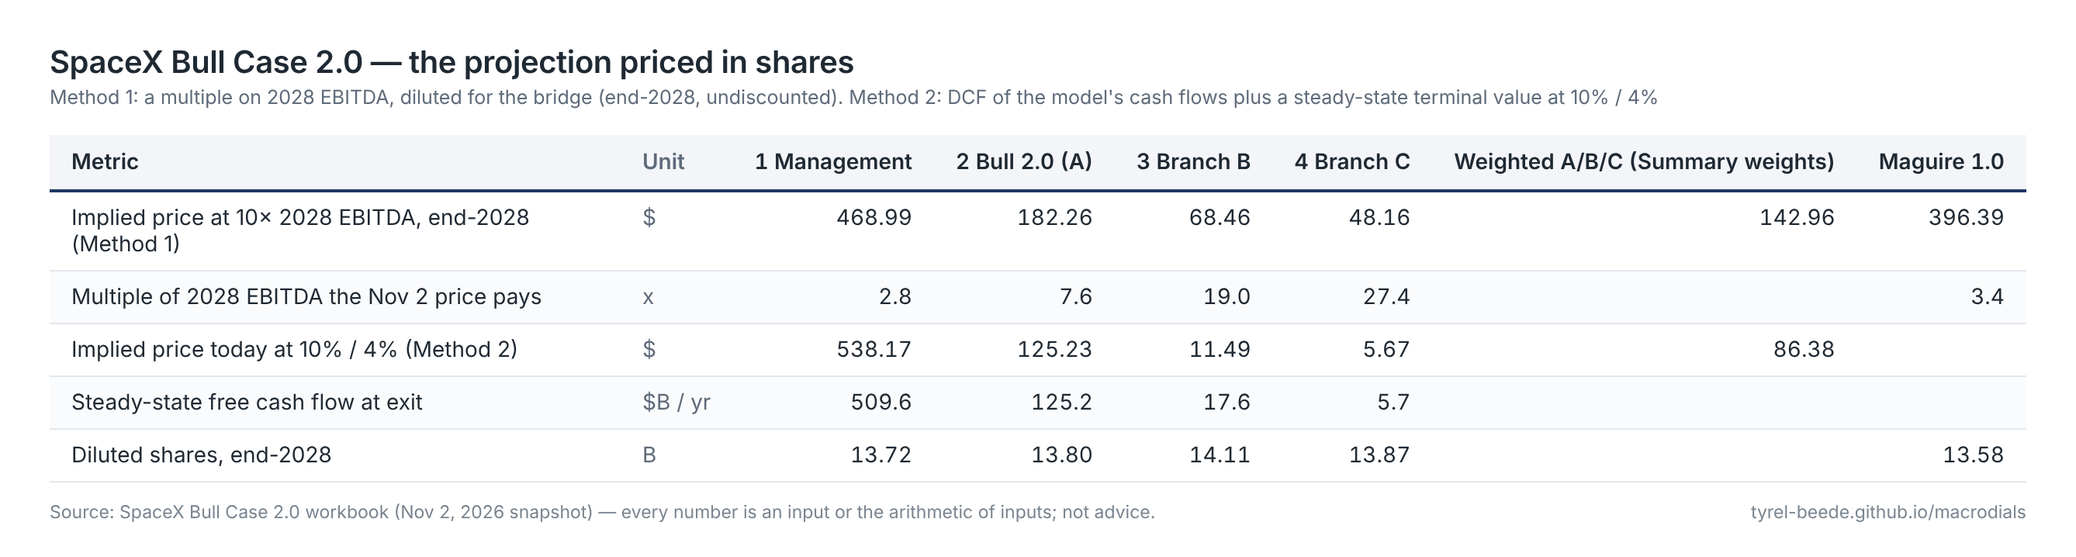
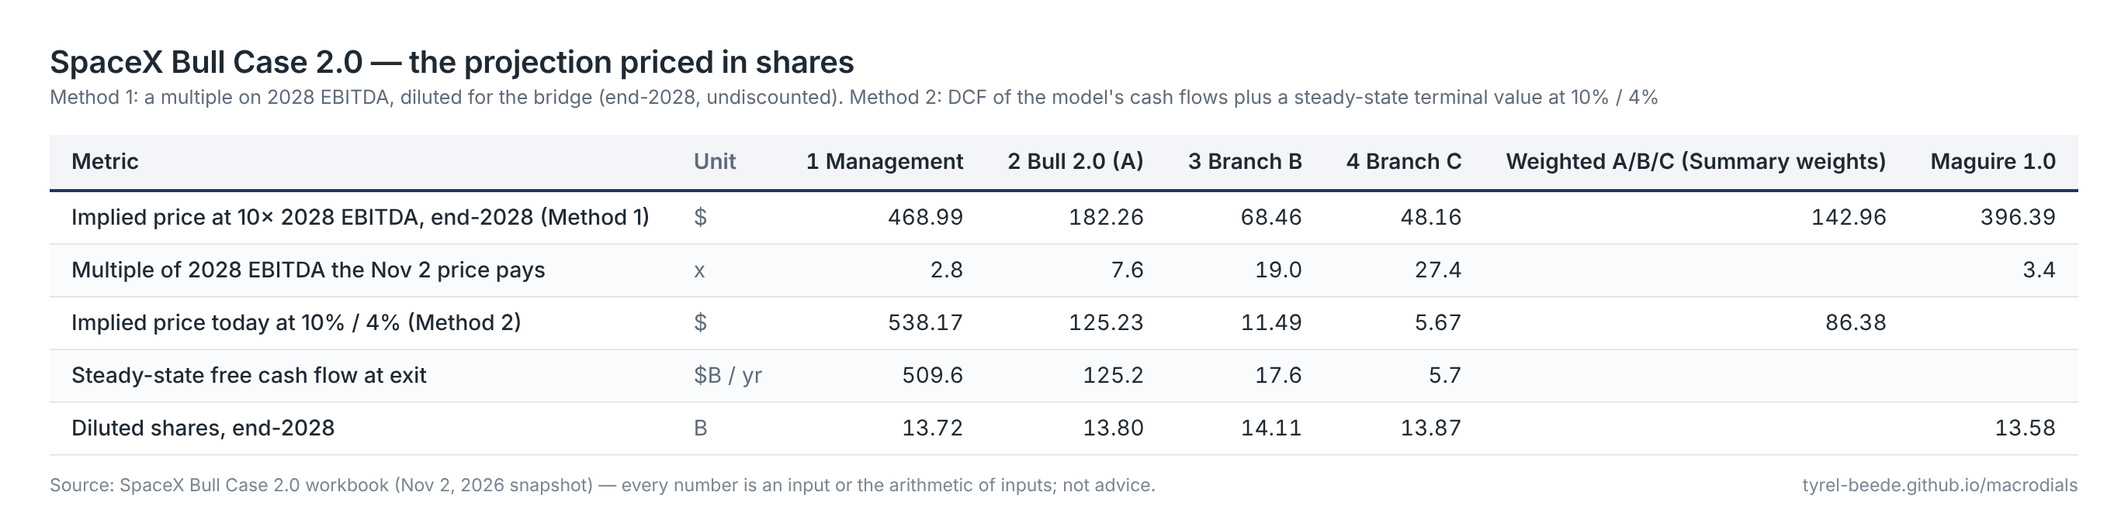
Three sets of numbers: an orientation page for the workbook
docs/model/three-numbers.md explains the company's numbers (Oct 20 call), the bull's (Maguire 1.0)
and the model's (2.0), what kind of statement each is, how the same share price reads against each,
and how to use the scenario selector; three tables rendered as images by tools/site_tables.py
(three-numbers, provenance, scenarios) with selectable text versions. Linked from the Models page,
the home page and the nav.

Claude-Session: https://claude.ai/code/session_018bD6wvLDvuXJaxpEr5BHs2

diff --git a/tools/site_tables.py b/tools/site_tables.py
@@ -37,11 +37,75 @@ table { border-collapse: collapse; font-size: 14px; }
 th { text-align: left; font-weight: 600; padding: 9px 14px; border-bottom: 2px solid #1f3864; background: #f3f5f8; vertical-align: bottom; }
 th.num, td.num { text-align: right; font-variant-numeric: tabular-nums; }
 td { padding: 8px 14px; border-bottom: 1px solid #e3e7ec; vertical-align: top; }
-td.txt { max-width: 340px; }
+td.txt { max-width: 360px; }
+td.lab { white-space: nowrap; font-weight: 500; }
 tr:nth-child(even) td { background: #fafbfc; }
 td.unit, th.unit { color: #5f6b7a; white-space: nowrap; }
 .foot { font-size: 11.5px; color: #7a8591; margin-top: 12px; display: flex; justify-content: space-between; gap: 40px; }
 """
+
+# ---------------------------------------------------------------------------------------------
+# Static tables for the orientation page (docs/model/three-numbers.md). Values are quoted from the
+# Oct 20 call, Maguire's Oct 30 sheet as reconstructed in the article, and the workbook's defaults.
+# ---------------------------------------------------------------------------------------------
+STATIC = {
+    "three-numbers": [
+        ["Item", "The company (Oct 20 call)", "The bull — Maguire 1.0 (Oct 30)", "Model 2.0 base — Branch A (Nov 2)"],
+        ["Compute online, end-2027", "\"Surprised if less than 13 GW\"; 20 GW of power planned", "10.2 GW", "10.0 GW"],
+        ["Compute online, end-2028", "Not stated", "~22 GW implied by 2028 capex at $30B/GW", "15.0 GW — build throttled into the glut"],
+        ["Revenue run-rate, end-2027", "\"$500 billion to $1 trillion\"", "~$420B", "$255B"],
+        ["Revenue 2027 / 2028", "Q1-27 guided $33–37B; years not stated", "$274B / $731B", "$170B / $324B"],
+        ["Adjusted EBITDA 2027 / 2028", "Not stated", "$196B / $536B", "$134B / $263B"],
+        ["Capex", "Q4-26 guided $35–40B", "$88B / $290B / $369B (2026–28)", "Cash $264B / $187B in 2027–28, plus $86B / $45B of vendor leases"],
+        ["Cash generation", "Build \"starts funding itself\" in 1H27", "Cash −$78B / −$123B / +$115B", "Free cash flow −$63B / +$72B; self-funding Q4-27, by throttling"],
+        ["Price of compute", "Payback \"of less than a year\"", "$19.5B → $40B per GW-year on 100% of the fleet, then flat", "$6.50 → $11 → $8 per GPU-hour on the external half; Grok's revenue on the internal half"],
+        ["Cost to build a gigawatt", "\"Slightly above the $30–50 per watt range\"", "$45B → $30B, booked when capacity arrives", "$42B → $34B, half paid a quarter ahead; power capex separate"],
+        ["Internal vs external", "50/50 goal, 60/40 either way", "Not distinguished", "62% external today → 50%"],
+        ["GPU life", "—", "16 years implied by 2028 depreciation", "4 years, vintage-tracked"],
+        ["Orbital compute", "First Starmind flights 2027", "2.8 GW, $31B of revenue, 135 launches in 2028, no capex", "~0.5 GW by end-2028 with capex; MW per launch 8 → 12"],
+        ["Terafab", "Test chip mid-2027; volume Q3–Q4 2028, \"large error bars\"", "Revenue in 2028, no capex", "Capex from 2027; no revenue in the horizon"],
+        ["What $137.40 pays for 2028 EBITDA", "—", "3.4×", "7.6× (diluted)"],
+    ],
+    "provenance": [
+        ["", "The company's numbers", "The bull's numbers", "The model's numbers"],
+        ["Who and when", "Elon Musk, Gwynne Shotwell and CFO Bret Johnsen on the Q3 call, Oct 20, 2026, and the earnings release", "Shaun Maguire, partner at Sequoia Capital (a major SpaceX shareholder), posted to X on Oct 30, built over the preceding week", "The Bull Case 2.0 workbook, a Nov 2, 2026 snapshot built from the article's corrections to 1.0"],
+        ["What kind of statement", "Targets and guidance. The near ones (Q4 capex, Q1 revenue) are guidance a company is held to; the far ones (13 GW, $500B–$1T) are ambitions", "A sketch built for a story: management's claims discounted by a quarter to a half, written in cells so they can be debated", "Conditional arithmetic: four scenarios, each the consequence of stated inputs"],
+        ["Built for", "Investors and customers; setting the scale of the ambition", "Distilling \"something complicated into something that can at least be debated\"", "Orienting a reader on what the same ambition delivers when priced at market and depreciated honestly"],
+        ["Strongest where", "Things the company controls: deployment speed (200,000 chips a month), launch, the near-term guide", "The four inputs its author named: gigawatts, revenue and capex per gigawatt, the Starship ramp, first orbital launches", "Structure: the internal/external split, the lag and ramp, the funding bridge, the depreciation"],
+        ["Weakest where", "The far numbers require ~$16 per GPU-hour on the external fleet, 2.5× today's implied price, or a $100B-plus Grok business within 14 months", "100% of the fleet priced per watt with Grok on top; no construction lag; a 16-year GPU life; orbital and fab with no capex; launch with no depreciation", "Where it must guess: Grok's revenue, the prepayment multiple, the 2028 throttle, the external price path"],
+        ["What moves it", "The Q4 call in late January: the 2027 gigawatt guide, the external share, revenue per gigawatt", "Nothing — it is a dated artifact; its author said the outputs are \"trivial\" given the inputs", "The blue cells on Assumptions; the dated tests on the Tests sheet"],
+        ["Where it lives in the workbook", "Scenario 1 (Management as stated) and the calculator on Summary", "The 1.0 columns on Summary and Valuation; the Bridge sheet", "Scenarios 2–4 and every model sheet"],
+    ],
+    "scenarios": [
+        ["Workbook scenario", "What it represents", "GW end-2027 / end-2028", "External price ($/GPU-hour)", "Revenue 2027 / 2028", "Self-funding", "Market cap ÷ 2028 EBITDA"],
+        ["1 Management as stated", "The company's words reproduced: the price and prepayments the $500B run-rate requires", "13.1 / 29.8", "$10 → $16 → $15", "$254B / $742B", "Q4-27", "2.8×"],
+        ["2 Bull 2.0 base (Branch A)", "The bull after the corrections; the dashboard's expansion-holds branch", "10.0 / 15.0", "$6.50 → $11 → $8", "$170B / $324B", "Q4-27 (by throttling)", "7.6×"],
+        ["3 Branch B", "A capital-spending bust from 2027: prices fall, the build slows, the bridge stays open", "7.3 / 9.4", "$6.50 → $5.50 → $4", "$107B / $147B", "Not in the horizon", "19.0×"],
+        ["4 Branch C", "A credit crunch: the funding window closes, the build throttles to a crawl", "5.3 / 6.3", "$6.50 → $4.50 → $3", "$91B / $103B", "Q4-27 (forced)", "27.4×"],
+        ["Reference: Maguire 1.0", "The bull's own sheet, as reconstructed in the article", "10.2 / ~22", "$8.40 at 100% utilization on 100% of the fleet", "$274B / $731B", "Q1 2028", "3.4×"],
+    ],
+}
+TITLES.update({
+    "three-numbers": "The same company, three sets of numbers",
+    "provenance": "What kind of number each one is",
+    "scenarios": "The workbook's scenario selector, mapped to the three sets of numbers",
+})
+SUBTITLES.update({
+    "three-numbers": "Company: Q3 2026 call and release (Oct 20). Bull: Maguire's Oct 30 model as reconstructed in \"Better Together Than Alone\". Model 2.0: the workbook's Branch A defaults, Nov 2, 2026 snapshot",
+    "provenance": "Three kinds of statement, not three forecasts of the same thing",
+    "scenarios": "Assumptions sheet, cell D4. Prices are the external fleet's $ per GPU-hour at Q4-26 → Q4-27 → Q4-28; market cap at the Nov 2 close ($137.40 × 13.58B) on end-2028 diluted shares",
+})
+
+
+def write_static():
+    OUT.mkdir(parents=True, exist_ok=True)
+    for name, rows in STATIC.items():
+        with open(OUT / f"{name}.md", "w", encoding="utf-8") as f:
+            f.write("| " + " | ".join(rows[0]) + " |\n")
+            f.write("| " + " | ".join("---" for _ in rows[0]) + " |\n")
+            for vals in rows[1:]:
+                f.write("| " + " | ".join(v.replace("|", "\\|") for v in vals) + " |\n")
+        render_png(name, rows, text_table=True)
 
 
 def is_num(s):
@@ -52,19 +116,30 @@ def is_num(s):
         return False
 
 
-def render_png(name, rows):
+def render_png(name, rows, text_table=False):
     try:
         from playwright.sync_api import sync_playwright
     except ImportError:
         print("playwright not installed — skipping", name + ".png"); return
     IMG.mkdir(parents=True, exist_ok=True)
     head, body = rows[0], rows[1:]
-    ths = "".join(f'<th class="{"unit" if i == 1 else ("num" if i >= 2 else "")}">{html.escape(h)}</th>' for i, h in enumerate(head))
+    ncol = len(head)
+    # a column is numeric when most of its non-empty cells are numbers; the unit column is column 1 of a data table
+    numeric = []
+    for i in range(ncol):
+        vals = [r[i] for r in body if r[i] != ""]
+        numeric.append(bool(vals) and sum(is_num(v) for v in vals) >= 0.6 * len(vals) and not (text_table and i == 0))
+    def hcls(i):
+        if not text_table and i == 1: return "unit"
+        return "num" if numeric[i] else ""
+    ths = "".join(f'<th class="{hcls(i)}">{html.escape(h)}</th>' for i, h in enumerate(head))
     trs = []
     for r in body:
         tds = []
         for i, v in enumerate(r):
-            cls = "unit" if i == 1 else ("num" if (i >= 2 and (is_num(v) or v == "")) else "txt")
+            if not text_table and i == 1: cls = "unit"
+            elif numeric[i] and (is_num(v) or v == ""): cls = "num"
+            else: cls = "txt" if i > 0 else "lab"
             tds.append(f'<td class="{cls}">{html.escape(v)}</td>')
         trs.append("<tr>" + "".join(tds) + "</tr>")
     doc = f"""<!doctype html><html><head><meta charset="utf-8"><style>{CSS}</style></head><body>
@@ -133,6 +208,7 @@ def main():
     v = wb["Valuation"]
     hv = find_row(v, "Metric")
     dump(v, hv, 5, range(1, 9), "valuation.md")
+    write_static()
     print("wrote", sorted(p.name for p in OUT.glob("*.md")), sorted(p.name for p in IMG.glob("*.png")) if IMG.exists() else [])
 
 

diff --git a/docs/model/three-numbers.md b/docs/model/three-numbers.md
@@ -1,0 +1,61 @@
+# Three sets of numbers: the company's, the bull's, and the model's
+
+Anyone who opens the Bull Case 2.0 workbook meets three different versions of SpaceX: the one management describes, the one the bull's spreadsheet models, and the one the workbook computes. They are not three forecasts of the same quantity. They are three kinds of statement, made by different people for different purposes, and a reader who treats them as interchangeable will be surprised in both directions — the company's numbers will look like the model has been built by a bear, and the model's numbers will look like the company is being dismissed. Neither is the case. This page sets out what each set is, where it comes from, what it is good for, and what to expect from it, so that the scenario selector on the Assumptions sheet makes sense before the first cell is changed.
+
+[![The same company, three sets of numbers](images/three-numbers.png)](images/three-numbers.png)
+
+??? note "Text version (selectable)"
+    --8<-- "model/tables/three-numbers.md"
+
+## The company's numbers
+
+The company's numbers are the ones said on the third-quarter call of Oct 20, 2026 and in the earnings release: 1.7 gigawatts of nameplate compute at the end of September, about two in October, 2.5 to 3 by year-end; "I would be surprised if we brought on less than 13 GW of compute by the end of next year," with 20 gigawatts of power, cooling and infrastructure planned so that power is not the constraint; $100 billion of annualized revenue by December 2026 and "somewhere between $500 billion and $1 trillion" of run-rate by the end of 2027; fourth-quarter capex of $35–40 billion; first-quarter 2027 revenue of $33–37 billion; new deployments costing "slightly above the $30–50 per watt range" with payback "of less than a year"; a rough 50/50 split of the fleet between outside customers and the company's own products; and a build that "starts funding itself, beginning in the first half of 2027" while the company keeps its investment-grade rating.
+
+Two things about these numbers matter more than their size. The first is that they are not all the same kind of claim. The near ones — the capex guide for the current quarter, the revenue guide for the next — are guidance in the ordinary sense: a public company is held to them, and a miss is an event. The far ones — 13 gigawatts, $500 billion to $1 trillion — are ambitions, said by a founder with a long record of reaching impossible targets late. They set the scale of the bet; they are not something the company has promised to deliver on a date.
+
+The second is that the far numbers carry an implicit claim about price, not just volume. The workbook's calculator on the Summary sheet makes it explicit: a $500 billion run-rate at the end of 2027 on 13 gigawatts, with half the fleet sold outside at 85% utilization, requires about $16 per GPU-hour on the external fleet, against roughly $6 implied by the third quarter's cloud revenue and $4 to $6.70 on the published price cards for the current generation. Either the price of compute rises two and a half times in fourteen months, or Grok becomes a business earning more than $100 billion a year on the internal half, or the number is not reached. That is what "surprised if less than 13" and "$500 billion to $1 trillion" mean when written in cells together.
+
+The workbook keeps the company's numbers as scenario 1, *Management as stated*. It is there to show what the words require — the price path, the prepayments, the vendor leases — not as a forecast. Run that way, it produces $254 billion of revenue in 2027 and $742 billion in 2028 and funds itself from the fourth quarter of 2027. Those outputs are only as real as the $16 price.
+
+## The bull's numbers
+
+The bull's numbers are Shaun Maguire's. A partner at Sequoia Capital — a major SpaceX shareholder, which he disclosed — he posted a "bottoms up" financial model of the company through the end of 2028 to X on Oct 30, built over the preceding week. He called the numbers "insane," flagged "wide error bars given how quickly things are changing," and said the point was "to distill something complicated into something that can at least be debated." Two days later he added that the model estimates four inputs — how many gigawatts are online in 2027 and 2028, how revenue and capex per gigawatt change over time, how Starship launches ramp, and when the first orbital compute satellites fly — with everything else "trivial outputs" of those choices.
+
+The sheet puts revenue at $51 billion in 2026, $274 billion in 2027 and $731 billion in 2028; EBITDA at $28, $196 and $536 billion; capex at $88, $290 and $369 billion; cash falling by $78 billion and $123 billion before rising $115 billion in 2028. It has 10.2 gigawatts online at the end of 2027 and a run-rate of about $420 billion at that point, and it self-funds in 2028. Read against the company's words, it is management discounted by a quarter to a half — fewer gigawatts, less revenue, self-funding a year later — and the founder replied to it in six words: "I think we can do better."
+
+Read against its own cells, it is more generous than management in ways that do not show up in the headline figures, and these are the reasons the 2.0 model exists. It prices 100% of the fleet at $40 billion per gigawatt-year and adds Grok's revenue on top, when management says half the fleet is internal and an internal customer earns what its own customers pay. It books capex in the quarter capacity arrives, with no construction lag and no ramp. Its 2028 depreciation implies a sixteen-year life for GPUs. Its orbital line carries 2.8 gigawatts, $31 billion of revenue and 135 launches with no capex anywhere; its chip fab books revenue in 2028 with no capex either; and its launch segment stops depreciating from mid-2027. None of that makes the narrative wrong. It makes the sheet what its author said it was: a sketch built for a story, and the best public articulation of the bull case precisely because it can be checked.
+
+The workbook does not run the bull's sheet as a scenario. It keeps it as a reference — the 1.0 columns on the Summary and Valuation sheets and the Bridge sheet, which walks through what changed on each of the four inputs.
+
+## The model's numbers
+
+The model's numbers are the workbook's own: the bull's structure with the article's corrections applied, computed quarter by quarter from the third quarter of 2026 through the end of 2028, under four scenarios wired to the macro dashboard's branches. Every number is an input or the arithmetic of inputs, and every input carries a note saying where it came from.
+
+The base case, scenario 2, is the bull after the corrections. The fleet reaches 10 gigawatts at the end of 2027 — the bull's own figure — and then the build is throttled to about a gigawatt a quarter as prices soften, so it ends 2028 at 15 rather than the twenty-odd the bull's capex implies. The external share of the fleet runs from 62% today toward management's 50%, and only that share earns a price: $6.50 per GPU-hour today, rising to $11 at the top of the scarcity window at the end of 2027, easing to $8 through the 2028 glut. The internal half earns what Grok, X and Cursor's customers pay, growing fast from a small base. Deployments cost $42 billion a gigawatt falling to $34 billion, half of it paid a quarter before the capacity is energized, with power and cooling on top; GPUs depreciate over four years; orbital compute and the fab pay for themselves on the way in.
+
+On those inputs the company earns $170 billion of revenue in 2027 and $324 billion in 2028, with EBITDA of $134 billion and $263 billion; it spends $264 billion and $187 billion of cash on capex, with a further $86 billion and $45 billion financed by vendor leases; free cash flow is −$63 billion in 2027 and +$72 billion in 2028; and it funds itself from the fourth quarter of 2027. The self-funding date lands close to management's claim, but for the opposite reason: not because the fleet pays for itself inside a year — revenue per gigawatt-year runs $17 to $24 billion against $34 to $42 billion to build one, a ratio of 0.5 to 0.6 that never reaches one — but because the build is cut as the glut arrives. The outside money that bridges 2027 is mostly customer prepayments ($97 billion over the horizon) and vendor leases ($155 billion), with only $31 billion of new debt and equity. That is the cycle-rider's play described in the article, written in cells.
+
+Scenarios 3 and 4 are not pessimistic flourishes; they are the dashboard's other branches. In a capital-spending bust (B) prices fall to $4, the build slows, revenue is $107 billion and $147 billion, and the bridge never closes. In a credit crunch (C) the funding window shuts and the build throttles to a crawl; revenue is $91 billion and $103 billion, and the company "self-funds" only because it has stopped building.
+
+[![What kind of number each one is](images/provenance.png)](images/provenance.png)
+
+??? note "Text version (selectable)"
+    --8<-- "model/tables/provenance.md"
+
+## The same share price, read three ways
+
+The three sets of numbers meet the market at one price. At the Nov 2 close of $137.40, SpaceX's market capitalization of about $1.87 trillion is 3.4 times the bull's 2028 EBITDA, 7.6 times the 2.0 base case's on diluted shares, and 2.8 times the company's own numbers run through the workbook. The same price, in other words, is either a market that does not believe the bull's number or one that believes the model's and wants a return on it. Run the other way, at a mature compounder's ten times 2028 EBITDA, the bull's sheet implies about $396 a share at the end of 2028 and the base case about $182; discounting the base case's own cash flows plus a steady-state terminal value at 10% and 4% growth gives about $125 today. The Valuation sheet carries the arithmetic, the dilution from the bridge, and the sensitivities to the multiple and the discount rate — which are large, and which are the honest statement of how much of any of this is yardstick rather than model.
+
+## Using the three together
+
+The expectation to carry into the spreadsheet is a spread, not a point. The company's numbers are the ceiling and contain an unstated price. The bull's sheet is a story-shaped version of the ceiling, more generous than it looks. The base case is what the same ambition delivers when the fleet is priced at market and depreciated honestly, and it still comes out as a large, fast-growing, self-funding company — just not the one in the headline figures. The gap between the top and the bottom is the size of the bet, and the article's phrase for it applies: it is the market's probability that the funding and pricing assumptions hold.
+
+[![The workbook's scenario selector, mapped to the three sets of numbers](images/scenarios.png)](images/scenarios.png)
+
+??? note "Text version (selectable)"
+    --8<-- "model/tables/scenarios.md"
+
+Three running numbers tell you which set of numbers the world is moving toward, and the workbook shows each: gigawatts energized (the Compute sheet, against the 13 the founder has promised), revenue per gigawatt-year against the cost per gigawatt (the bottom of the Compute sheet; payback under a year needs it above one), and the funding mix (the bottom of the Consolidated sheet; a shift from cash flow and vendors toward new equity and long-term contracts is the bridge under strain). The first reported figures that all three sets of numbers will meet arrive with the fourth-quarter call in late January: the 2027 gigawatt guide, the external share of the fleet, and revenue per gigawatt. The Tests sheet lists the rest, with dates, and the input in the workbook that each one moves.
+
+!!! note "What this is and is not"
+    An orientation to a sketch, not a forecast and not advice. The company's figures are quoted from the Oct 20 call and release; the bull's from Maguire's posted spreadsheet as reconstructed in *Better Together Than Alone*, with his own caveats; the model's from the workbook's defaults as of the Nov 2, 2026 snapshot. Change the blue cells and the model's numbers change with them.

diff --git a/docs/model/tables/provenance.md b/docs/model/tables/provenance.md
@@ -1,0 +1,9 @@
+|  | The company's numbers | The bull's numbers | The model's numbers |
+| --- | --- | --- | --- |
+| Who and when | Elon Musk, Gwynne Shotwell and CFO Bret Johnsen on the Q3 call, Oct 20, 2026, and the earnings release | Shaun Maguire, partner at Sequoia Capital (a major SpaceX shareholder), posted to X on Oct 30, built over the preceding week | The Bull Case 2.0 workbook, a Nov 2, 2026 snapshot built from the article's corrections to 1.0 |
+| What kind of statement | Targets and guidance. The near ones (Q4 capex, Q1 revenue) are guidance a company is held to; the far ones (13 GW, $500B–$1T) are ambitions | A sketch built for a story: management's claims discounted by a quarter to a half, written in cells so they can be debated | Conditional arithmetic: four scenarios, each the consequence of stated inputs |
+| Built for | Investors and customers; setting the scale of the ambition | Distilling "something complicated into something that can at least be debated" | Orienting a reader on what the same ambition delivers when priced at market and depreciated honestly |
+| Strongest where | Things the company controls: deployment speed (200,000 chips a month), launch, the near-term guide | The four inputs its author named: gigawatts, revenue and capex per gigawatt, the Starship ramp, first orbital launches | Structure: the internal/external split, the lag and ramp, the funding bridge, the depreciation |
+| Weakest where | The far numbers require ~$16 per GPU-hour on the external fleet, 2.5× today's implied price, or a $100B-plus Grok business within 14 months | 100% of the fleet priced per watt with Grok on top; no construction lag; a 16-year GPU life; orbital and fab with no capex; launch with no depreciation | Where it must guess: Grok's revenue, the prepayment multiple, the 2028 throttle, the external price path |
+| What moves it | The Q4 call in late January: the 2027 gigawatt guide, the external share, revenue per gigawatt | Nothing — it is a dated artifact; its author said the outputs are "trivial" given the inputs | The blue cells on Assumptions; the dated tests on the Tests sheet |
+| Where it lives in the workbook | Scenario 1 (Management as stated) and the calculator on Summary | The 1.0 columns on Summary and Valuation; the Bridge sheet | Scenarios 2–4 and every model sheet |

diff --git a/docs/model/tables/three-numbers.md b/docs/model/tables/three-numbers.md
@@ -1,0 +1,16 @@
+| Item | The company (Oct 20 call) | The bull — Maguire 1.0 (Oct 30) | Model 2.0 base — Branch A (Nov 2) |
+| --- | --- | --- | --- |
+| Compute online, end-2027 | "Surprised if less than 13 GW"; 20 GW of power planned | 10.2 GW | 10.0 GW |
+| Compute online, end-2028 | Not stated | ~22 GW implied by 2028 capex at $30B/GW | 15.0 GW — build throttled into the glut |
+| Revenue run-rate, end-2027 | "$500 billion to $1 trillion" | ~$420B | $255B |
+| Revenue 2027 / 2028 | Q1-27 guided $33–37B; years not stated | $274B / $731B | $170B / $324B |
+| Adjusted EBITDA 2027 / 2028 | Not stated | $196B / $536B | $134B / $263B |
+| Capex | Q4-26 guided $35–40B | $88B / $290B / $369B (2026–28) | Cash $264B / $187B in 2027–28, plus $86B / $45B of vendor leases |
+| Cash generation | Build "starts funding itself" in 1H27 | Cash −$78B / −$123B / +$115B | Free cash flow −$63B / +$72B; self-funding Q4-27, by throttling |
+| Price of compute | Payback "of less than a year" | $19.5B → $40B per GW-year on 100% of the fleet, then flat | $6.50 → $11 → $8 per GPU-hour on the external half; Grok's revenue on the internal half |
+| Cost to build a gigawatt | "Slightly above the $30–50 per watt range" | $45B → $30B, booked when capacity arrives | $42B → $34B, half paid a quarter ahead; power capex separate |
+| Internal vs external | 50/50 goal, 60/40 either way | Not distinguished | 62% external today → 50% |
+| GPU life | — | 16 years implied by 2028 depreciation | 4 years, vintage-tracked |
+| Orbital compute | First Starmind flights 2027 | 2.8 GW, $31B of revenue, 135 launches in 2028, no capex | ~0.5 GW by end-2028 with capex; MW per launch 8 → 12 |
+| Terafab | Test chip mid-2027; volume Q3–Q4 2028, "large error bars" | Revenue in 2028, no capex | Capex from 2027; no revenue in the horizon |
+| What $137.40 pays for 2028 EBITDA | — | 3.4× | 7.6× (diluted) |

diff --git a/docs/model/index.md b/docs/model/index.md
@@ -5,6 +5,7 @@
 A bottoms-up quarterly model of SpaceX from Q3-26 (actual) through Q4-28, rebuilt after *Better Together Than Alone* with the corrections the article identified: the internal half of the fleet earns Grok's product revenue rather than a per-watt price; external revenue is price per GPU-hour × hours × utilization; cost per gigawatt sits on the CFO's "$30–50 per watt"; GPUs depreciate over four years; orbital compute and the fab carry capex; Starlink and launch are real segments; and a funding bridge of prepayments, vendor leases, debt and equity computes the self-funding quarter instead of assuming it.
 
 [Download the workbook (.xlsx)](../files/SpaceX_Bull_Case_2.0.xlsx){ .md-button .md-button--primary }
+[Three sets of numbers: how to read it](three-numbers.md){ .md-button }
 
 Every number in the workbook is an input (blue) or the arithmetic of inputs. The scenario selector on the Assumptions sheet switches the whole model between **1 Management as stated**, **2 Bull 2.0 base (Branch A)**, **3 Branch B** (capex bust) and **4 Branch C** (credit crunch) — the dashboard's branches. The tables below are exported from the saved workbook each time the site builds, so they show the workbook's active scenario (Bull 2.0 base) and its static four-scenario snapshot. Each is an image — click it for the full-size PNG, which can be saved, copied or linked directly — with a selectable text version underneath.
 

diff --git a/docs/model/tables/scenarios.md b/docs/model/tables/scenarios.md
@@ -1,0 +1,7 @@
+| Workbook scenario | What it represents | GW end-2027 / end-2028 | External price ($/GPU-hour) | Revenue 2027 / 2028 | Self-funding | Market cap ÷ 2028 EBITDA |
+| --- | --- | --- | --- | --- | --- | --- |
+| 1 Management as stated | The company's words reproduced: the price and prepayments the $500B run-rate requires | 13.1 / 29.8 | $10 → $16 → $15 | $254B / $742B | Q4-27 | 2.8× |
+| 2 Bull 2.0 base (Branch A) | The bull after the corrections; the dashboard's expansion-holds branch | 10.0 / 15.0 | $6.50 → $11 → $8 | $170B / $324B | Q4-27 (by throttling) | 7.6× |
+| 3 Branch B | A capital-spending bust from 2027: prices fall, the build slows, the bridge stays open | 7.3 / 9.4 | $6.50 → $5.50 → $4 | $107B / $147B | Not in the horizon | 19.0× |
+| 4 Branch C | A credit crunch: the funding window closes, the build throttles to a crawl | 5.3 / 6.3 | $6.50 → $4.50 → $3 | $91B / $103B | Q4-27 (forced) | 27.4× |
+| Reference: Maguire 1.0 | The bull's own sheet, as reconstructed in the article | 10.2 / ~22 | $8.40 at 100% utilization on 100% of the fleet | $274B / $731B | Q1 2028 | 3.4× |

diff --git a/docs/index.md b/docs/index.md
@@ -5,7 +5,7 @@ Long-form articles, the models behind them, and the data feed that both are buil
 ## What is here
 
 - **[Articles](blog/index.md)** — the long-form pieces. The current one is *Better Together Than Alone*, a snapshot as of the Nov 2, 2026 close on the SpaceX–Tesla thesis: the physics, the money and the cycle.
-- **[Models](model/index.md)** — the spreadsheets. *SpaceX Bull Case 2.0* rebuilds the bull's bottoms-up model with the corrections the article identified; download the workbook or read its summary tables here.
+- **[Models](model/index.md)** — the spreadsheets. *SpaceX Bull Case 2.0* rebuilds the bull's bottoms-up model with the corrections the article identified; download the workbook or read its summary tables here, and start with [Three sets of numbers](model/three-numbers.md) to know what to expect from the company's figures, the bull's and the model's.
 - **[The data feed](data.md)** — what the repository pulls twice a day and how the dashboard reads it.
 
 ## How to read any of it
